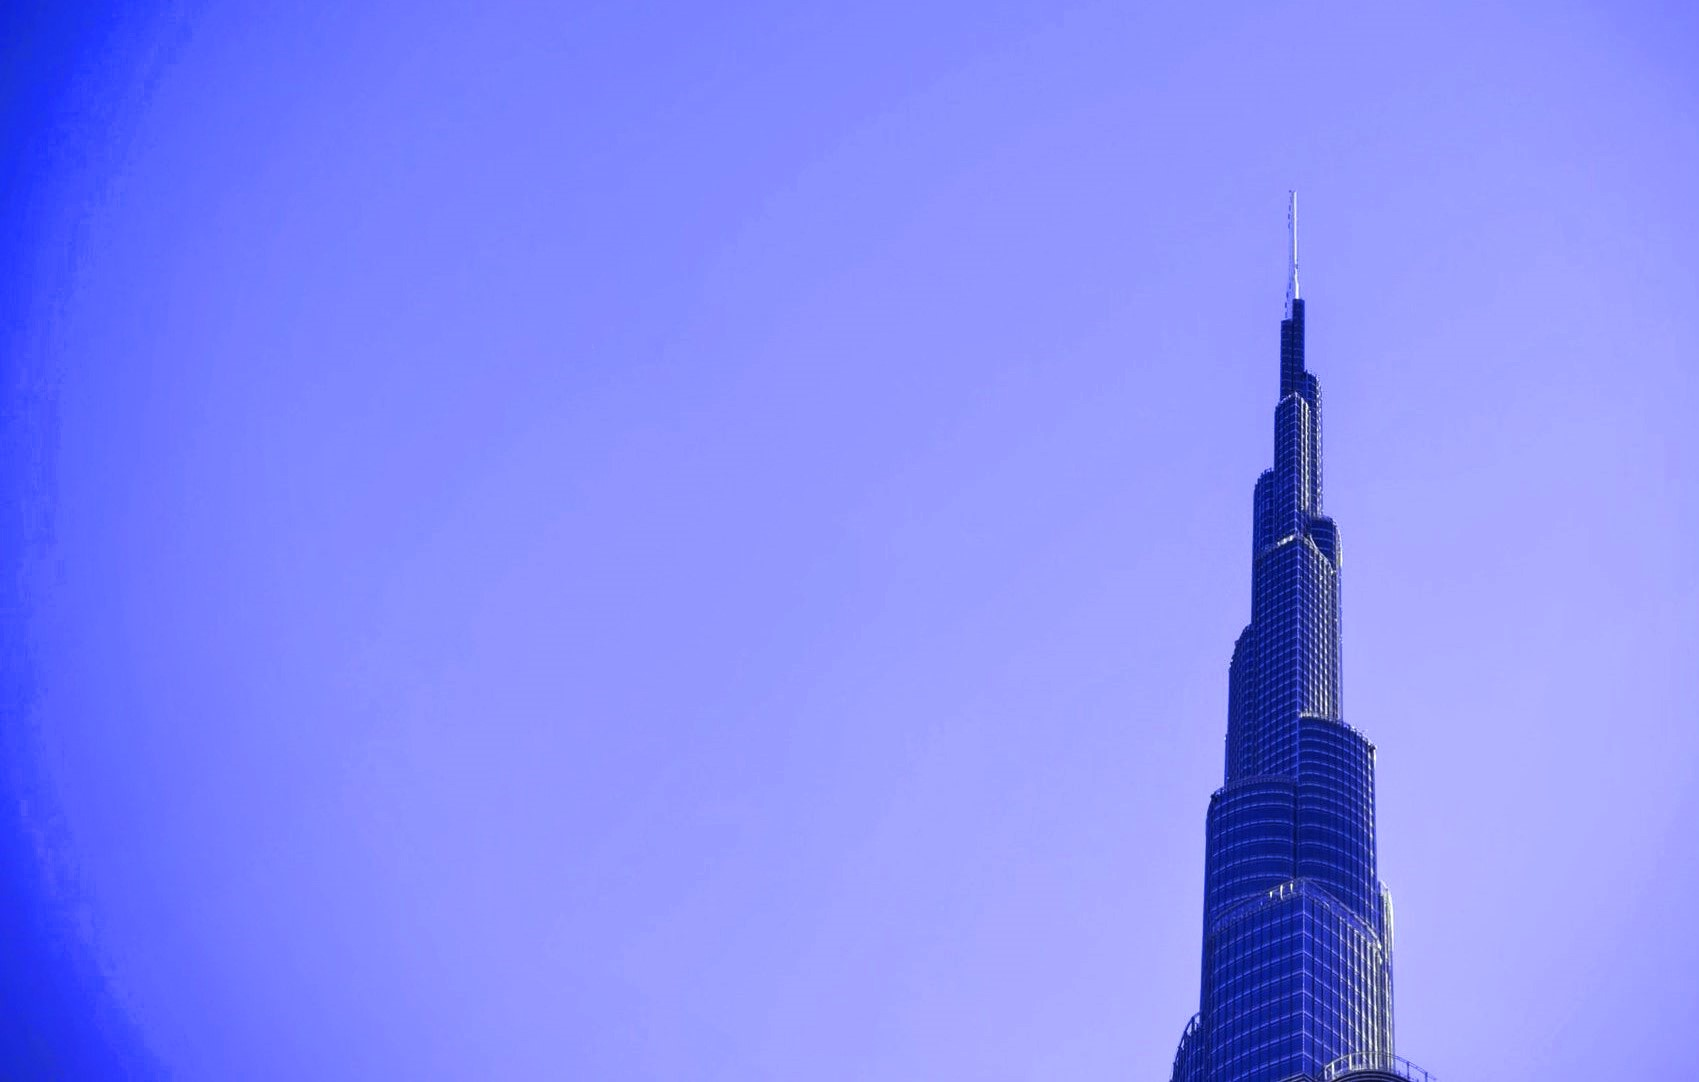
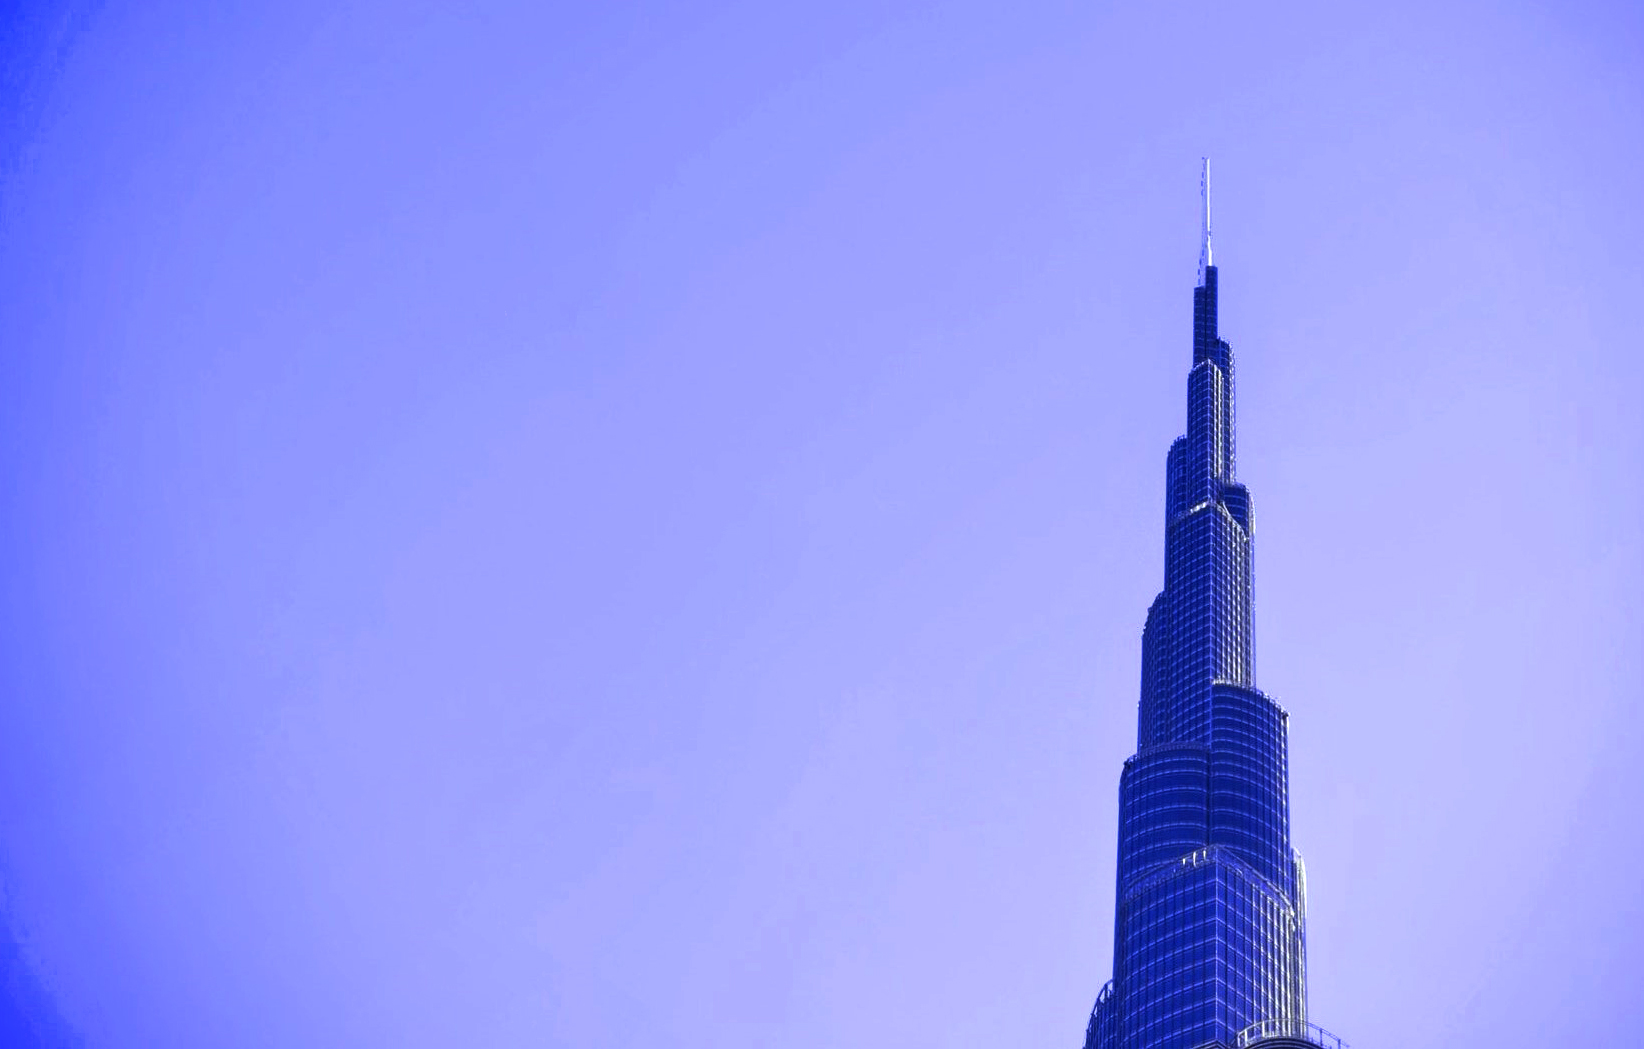
Finished

Changed region(s): [[0.0, 0.0, 0.1861, 1.0], [0.6515, 0.183, 0.8376, 1.0]]

diff --git a/styles/globals.css b/styles/globals.css
@@ -1,5 +1,5 @@
 @import url("https://fonts.googleapis.com/css2?family=Roboto:wght@300;400;500;700&display=swap");
-@import url("https://fonts.googleapis.com/css2?family=Oswald:wght@500&display=swap");
+@import url("https://fonts.googleapis.com/css2?family=Oswald:wght@400;500&display=swap");
 html,
 body {
   padding: 0;
@@ -18,6 +18,7 @@ a {
 .logo {
   font-family: "Oswald", sans-serif;
   color: rgb(101, 120, 243);
+  font-weight: 500;
 }
 .hero-image-container {
   position: relative;
@@ -25,6 +26,7 @@ a {
   top: 0;
   width: 100%;
   overflow: hidden;
+  height: 90vh;
 }
 .hero-image {
   position: absolute;
@@ -38,6 +40,9 @@ a {
   position: absolute;
   top: 250px;
   left: 100px;
+  font-family: "Oswald", sans-serif;
+  font-size: 1.3rem;
+  font-weight: 400;
 }
 .hero-title {
   font-size: 6rem !important;
@@ -45,20 +50,37 @@ a {
   top: 300px;
   left: 100px;
   font-style: italic;
+  text-transform: uppercase;
+}
+.image-container {
+  width: 920px;
+  height: 480px;
 }
 
 @media only screen and (max-width: 500px) {
+  .hero-image-container {
+    height: 60vh;
+  }
+  .hero-image {
+    object-fit: cover;
+    height: 100% !important;
+  }
   .hero-text {
     font-size: 0.8rem;
     position: absolute;
     top: 55px;
     left: 15px;
+    line-height: 1.1 !important;
   }
   .hero-title {
-    font-size: 2.8rem !important;
+    font-size: 3.4rem !important;
     position: absolute;
     top: 85px;
     left: 15px;
+  }
+  .image-container {
+    width: 320px;
+    height: 160px;
   }
 }
 
@@ -74,6 +96,10 @@ a {
     position: absolute;
     top: 105px;
     left: 25px;
+  }
+  .image-container {
+    width: 600px;
+    height: 320px;
   }
 }
 

diff --git a/components/ImageScrollBar.js b/components/ImageScrollBar.js
@@ -36,19 +36,25 @@ const RightArrow = () => {
 
 const ImageScrollBar = ({ data }) => (
   <ScrollMenu
-    style={{ overflow: "hidden" }}
     LeftArrow={LeftArrow}
     RightArrow={RightArrow}
+    style={{ overflow: "hidden" }}
   >
     {data.map((item) => (
-      <Box width="920px" height="200px" itemId={item.id} overflow="hidden" p="1" key={item.id}>
+      <Box
+        className="image-container"
+        key={item.id}
+        itemId={item.id}
+        overflow="hidden"
+        p="1"
+      >
         <Image
-          sizes="(max-width:500px) 500px, (max-width:1023px) 500px, 1000px"
           placeholder="blur"
           blurDataURL={item.url}
           src={item.url}
-          width={600}
-          layout="fill"
+          width="900"
+          height="470"
+          sizes="(max-width: 500px) 100px, (max-width: 1023px) 400px, 1000px"
           alt="property"
         />
       </Box>

diff --git a/components/Navbar.js b/components/Navbar.js
@@ -14,7 +14,7 @@ import { BsSearch } from "react-icons/bs";
 import { FiKey } from "react-icons/fi";
 
 const Navbar = () => (
-  <Flex p="2" borderBottom="1px" borderColor="gray.100">
+  <Flex p="2" py={7} borderBottom="1px" borderColor="gray.100">
     <Box
       className="logo"
       fontSize="2xl"

diff --git a/components/Hero.jsx b/components/Hero.jsx
@@ -11,7 +11,7 @@ const Hero = () => {
 
     >
       <Image
-        layout="responsive"
+        layout="fill"
         placeholder="blur"
         objectFit="cover"
         src={Dubai}
